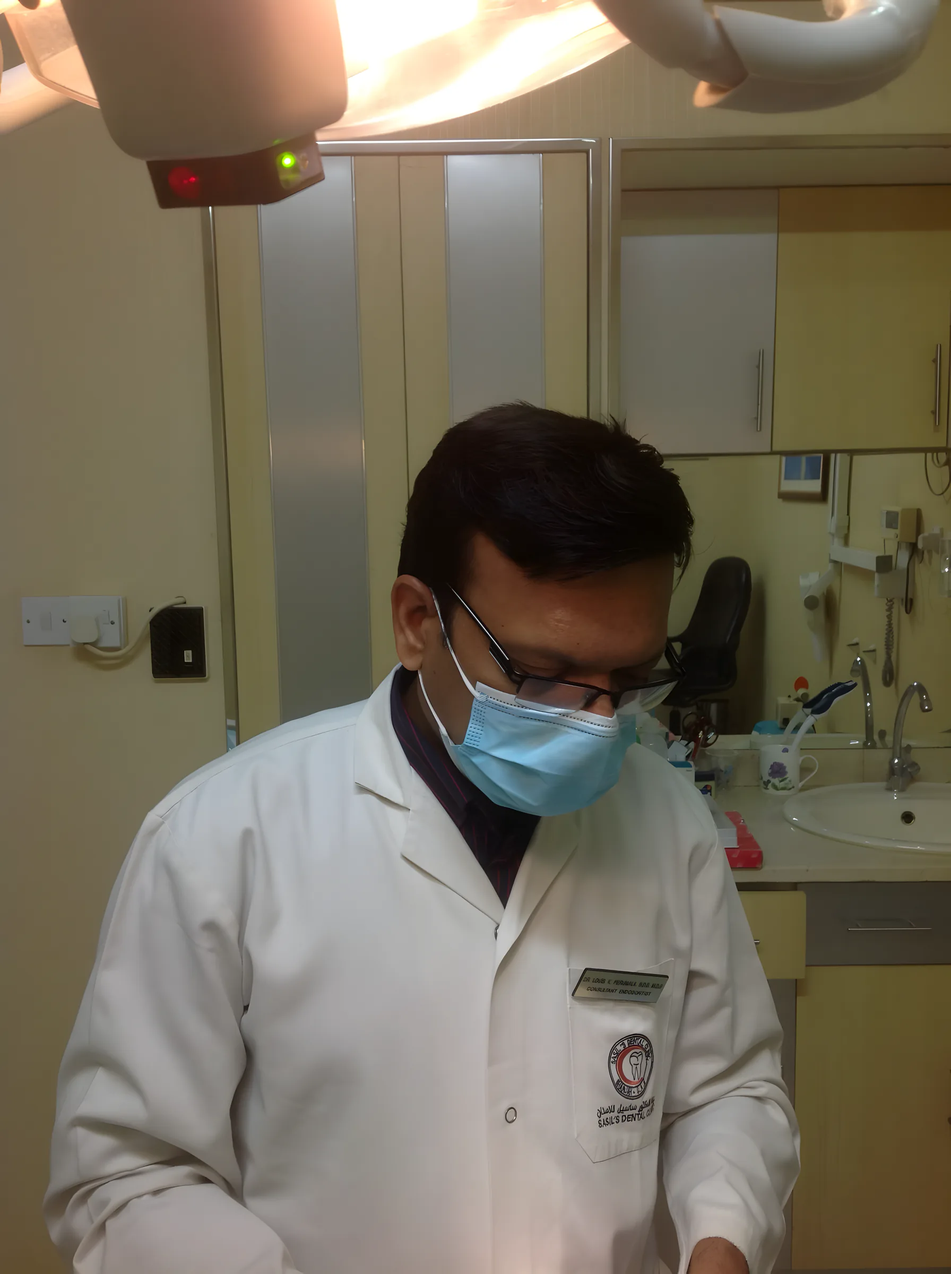
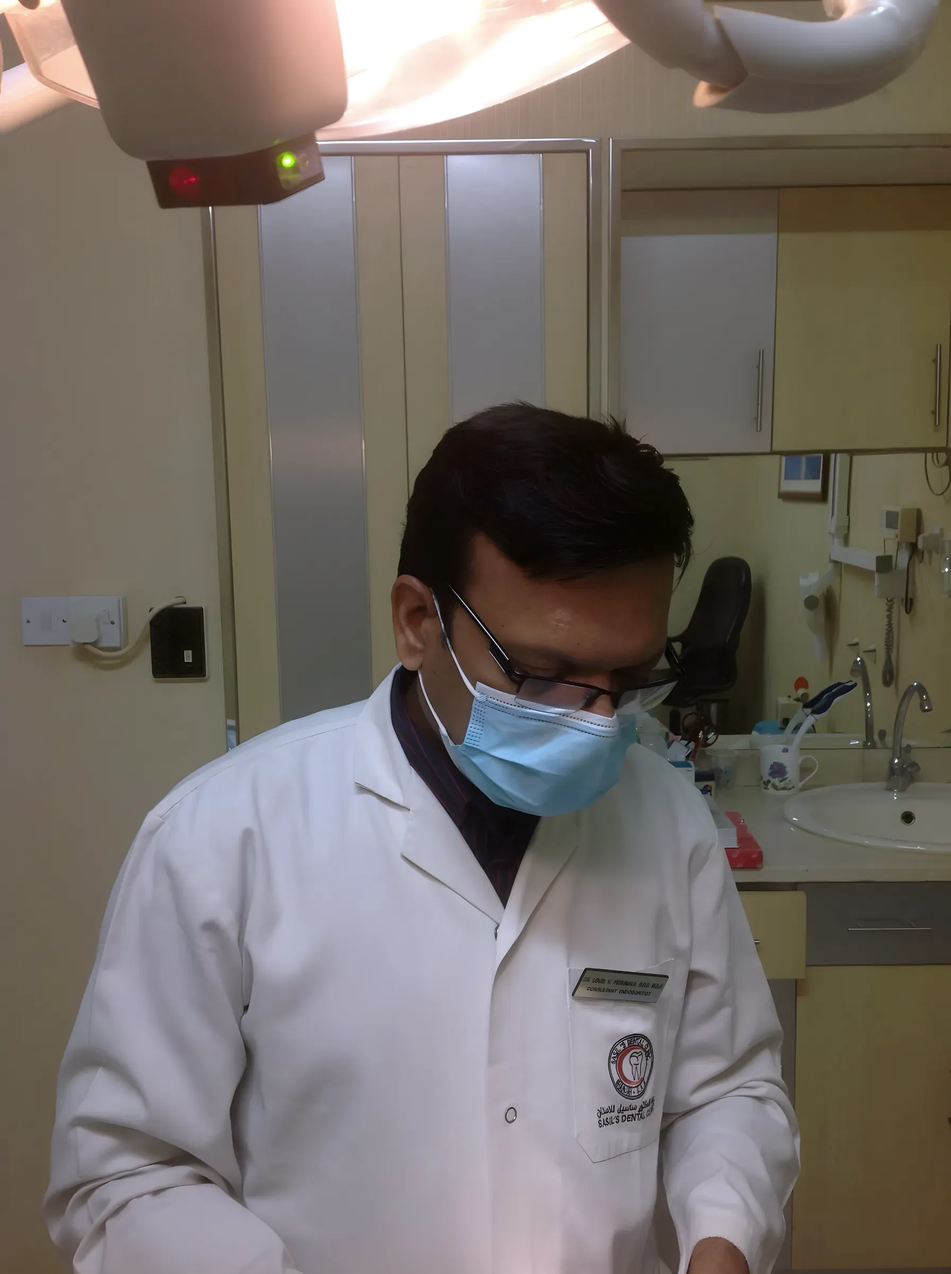
Update concepts 2026-10-29 10:03

Changed region(s): [[0.3125, 0.0, 0.6562, 0.125], [0.0, 0.0, 0.0938, 0.0938], [0.875, 0.0, 0.9062, 0.0312]]

diff --git a/dr-sasils-dental/ar/index.html b/dr-sasils-dental/ar/index.html
@@ -35,7 +35,7 @@
         <li><a href="#visit" class="k-link">موقعنا</a></li>
       </ul>
     </nav>
-    <a class="hd__call" href="tel:+97165626957" aria-label="اتصل على 06 562 6957"><svg viewBox="0 0 24 24" aria-hidden="true"><path fill="currentColor" d="M6.6 10.8a15.1 15.1 0 0 0 6.6 6.6l2.2-2.2c.3-.3.7-.4 1-.2 1.1.4 2.3.6 3.6.6.6 0 1 .4 1 1V20c0 .6-.4 1-1 1A17 17 0 0 1 3 4c0-.6.4-1 1-1h3.5c.6 0 1 .4 1 1 0 1.3.2 2.5.6 3.6.1.3 0 .7-.2 1z"/></svg><span class="lbl" dir="ltr">06 562 6957</span></a>
+    <a class="hd__call" href="tel:+97165626957" aria-label="اتصل على 06 562 6957"><svg viewBox="0 0 24 24" aria-hidden="true"><path fill="currentColor" d="M6.6 10.8a15.1 15.1 0 0 0 6.6 6.6l2.2-2.2c.3-.3.7-.4 1-.2 1.1.4 2.3.6 3.6.6.6 0 1 .4 1 1V20c0 .6-.4 1-1 1A17 17 0 0 1 3 4c0-.6.4-1 1-1h3.5c.6 0 1 .4 1 1 0 1.3.2 2.5.6 3.6.1.3 0 .7-.2 1z"/></svg><span class="lbl" dir="ltr"><span class="nw">06 562 6957</span></span></a>
   </div>
 </header>
 
@@ -47,17 +47,17 @@
     <p class="hero__roll hero__fade" style="--i:0"><span class="vh">احجز موعدك لتقويم الأسنان أو علاج العصب أو الزراعة أو الفينير أو التبييض أو فحص دوري.</span><span aria-hidden="true">احجز موعدك لـ<span class="roll" data-roll><span class="is-on">تقويم الأسنان.</span><span>علاج العصب.</span><span>زراعة الأسنان.</span><span>الفينير.</span><span>التبييض.</span><span>فحص دوري.</span></span></span></p>
     <p class="hero__lead hero__fade" style="--i:1">من أوائل عيادات تقويم الأسنان في الشارقة، افتتحها الدكتور ساسيل بونين سنة 1993 في شارع العروبة بالرولة. واليوم يغطي أربعة أطباء التقويم وعلاج العصب والتيجان والأطقم والزراعة تحت سقف واحد.</p>
     <div class="hero__acts hero__fade" style="--i:2">
-      <a class="k-btn" data-k-magnetic="0.25" href="tel:+97165626957">اتصل على <span dir="ltr">06 562 6957</span> <span class="k-arrow" aria-hidden="true">→</span></a>
-      <a class="txtlink k-link" href="#k-acc-h">شوف العلاجات <span class="k-arrow" aria-hidden="true">→</span></a>
+      <a class="k-btn" data-k-magnetic="0.25" href="tel:+97165626957">اتصل على <span dir="ltr"><span class="nw">06 562 6957</span></span> <span class="k-arrow" aria-hidden="true">→</span></a>
+      <a class="txtlink k-link" href="#k-acc-h">كل العلاجات <span class="k-arrow" aria-hidden="true">→</span></a>
     </div>
   </div>
   <figure class="hero__ph">
-    <div class="hero__disc"><img src="../img/chair-consult.webp" width="1792" height="2400" alt="طبيب في مركز د. ساسيل يفحص مريضاً على كرسي العلاج" fetchpriority="high"></div>
+    <div class="hero__sq"><div class="hero__disc"><img src="../img/chair-consult.webp" width="1792" height="2400" alt="طبيب في مركز د. ساسيل يفحص مريضاً على كرسي العلاج" fetchpriority="high"></div>
     <svg class="hero__seal" viewBox="-4 -4 108 108" aria-hidden="true">
       <defs><mask id="cres-m" maskUnits="userSpaceOnUse" x="-4" y="-4" width="108" height="108"><path d="M73 10.16 A46 46 0 1 0 73 89.84" fill="none" stroke="#fff" stroke-width="22" pathLength="1" stroke-dasharray="1" class="hero__mask-p"/></mask></defs>
       <circle class="hero__ring" cx="50" cy="50" r="51" pathLength="1"/>
       <g class="hero__mask"><path class="hero__cres" mask="url(#cres-m)" fill-rule="evenodd" d="M-2 50a48 48 0 1 0 96 0a48 48 0 1 0-96 0ZM5.5 50a44.5 44.5 0 1 0 89 0a44.5 44.5 0 1 0-89 0Z"/></g>
-    </svg>
+    </svg></div>
     <figcaption>في العيادة، شارع العروبة</figcaption>
   </figure>
 </section>
@@ -66,7 +66,7 @@
   <dl>
     <div><dt>العنوان</dt><dd>شقة 204، بناية جوس وورلد (Juice World)، شارع العروبة، الرولة، الشارقة</dd></div>
     <div><dt>الدوام</dt><dd>الإثنين–السبت، 9 صباحاً–9 مساءً</dd></div>
-    <div><dt>اتصل</dt><dd><a href="tel:+97165626957" class="k-link k-link--under" dir="ltr">06 562 6957</a></dd></div>
+    <div><dt>اتصل</dt><dd><a href="tel:+97165626957" class="k-link k-link--under" dir="ltr"><span class="nw">06 562 6957</span></a></dd></div>
   </dl>
 </div>
 
@@ -131,7 +131,7 @@
     <div>
       <h2 id="desk-h" data-reveal="lines">احجز عن طريق الاستقبال</h2>
       <p data-reveal data-reveal-delay="120">اتصل وقل لنا وش اللي يضايقك، ونحجز لك عند الطبيب المناسب، أي يوم من الإثنين إلى السبت، من 9 الصبح إلى 9 الليل.</p>
-      <a class="desk__num" href="tel:+97165626957" data-reveal data-reveal-delay="220" dir="ltr">06 562 6957</a>
+      <a class="desk__num" href="tel:+97165626957" data-reveal data-reveal-delay="220" dir="ltr"><span class="nw">06 562 6957</span></a>
     </div>
     <figure class="desk__ph" data-reveal="clip"><img src="../img/front-desk.webp" width="1344" height="1800" alt="موظفتا الاستقبال بالزي الأحمر خلف مكتب الاستقبال" loading="lazy"><figcaption>الاستقبال، بناية جوس وورلد</figcaption></figure>
   </div>
@@ -165,10 +165,10 @@
     </table>
     <div class="k-visit__acts">
       <a class="k-visit__go" data-k-magnetic href="https://www.google.com/maps/dir/?api=1&amp;destination=25.3567408,55.388281" target="_blank" rel="noopener">الاتجاهات <span class="k-arrow" aria-hidden="true">→</span></a>
-      <a class="k-visit__call" data-k-magnetic href="tel:+97165626957">اتصل <span dir="ltr">06 562 6957</span></a>
+      <a class="k-visit__call" data-k-magnetic href="tel:+97165626957">اتصل <span dir="ltr"><span class="nw">06 562 6957</span></span></a>
     </div>
   </div>
-  <div class="k-visit__map" data-k-map data-k-map-tap data-src="https://www.google.com/maps?q=25.3567408,55.388281&amp;z=17&amp;output=embed&amp;hl=ar">
+  <div class="k-visit__map" data-k-map data-src="https://www.google.com/maps?q=25.3567408,55.388281&amp;z=17&amp;output=embed&amp;hl=ar">
     <button type="button">اعرض الخريطة</button>
   </div>
 </section>
@@ -181,7 +181,7 @@
     <div class="ft__cols">
       <div><h2>العنوان</h2><p>شقة 204، بناية جوس وورلد<br>شارع العروبة، الرولة، الشارقة<br>ص.ب <span dir="ltr">21392</span>، الإمارات</p></div>
       <div><h2>الدوام</h2><p>من الإثنين إلى السبت<br>9 صباحاً إلى 9 مساءً<br>الأحد إجازة</p></div>
-      <div><h2>تواصل</h2><ul><li><a href="tel:+97165626957" dir="ltr">06 562 6957</a></li><li><a href="https://www.facebook.com/Dr-Sasils-Dental-Centre-1473928159522947/" target="_blank" rel="noopener">فيسبوك</a></li><li><a href="https://www.google.ae/maps/place/Dr+Sasils+Dental+Clinic/@25.3567408,55.3860923,17z" target="_blank" rel="noopener">خرائط Google</a></li></ul></div>
+      <div><h2>تواصل</h2><ul><li><a href="tel:+97165626957" dir="ltr"><span class="nw">06 562 6957</span></a></li><li><a href="https://www.facebook.com/Dr-Sasils-Dental-Centre-1473928159522947/" target="_blank" rel="noopener">فيسبوك</a></li><li><a href="https://www.google.ae/maps/place/Dr+Sasils+Dental+Clinic/@25.3567408,55.3860923,17z" target="_blank" rel="noopener">خرائط Google</a></li></ul></div>
       <div><h2>الصفحات</h2><ul><li><a href="../services.html" hreflang="en">العلاجات (بالإنجليزية)</a></li><li><a href="../about.html" hreflang="en">قصتنا (بالإنجليزية)</a></li><li><a href="../" lang="en" hreflang="en">English</a></li></ul></div>
     </div>
   </div>

diff --git a/dr-sasils-dental/index.html b/dr-sasils-dental/index.html
@@ -35,7 +35,7 @@
         <li><a href="#visit" class="k-link">Find us</a></li>
       </ul>
     </nav>
-    <a class="hd__call" href="tel:+97165626957" aria-label="Call 06 562 6957"><svg viewBox="0 0 24 24" aria-hidden="true"><path fill="currentColor" d="M6.6 10.8a15.1 15.1 0 0 0 6.6 6.6l2.2-2.2c.3-.3.7-.4 1-.2 1.1.4 2.3.6 3.6.6.6 0 1 .4 1 1V20c0 .6-.4 1-1 1A17 17 0 0 1 3 4c0-.6.4-1 1-1h3.5c.6 0 1 .4 1 1 0 1.3.2 2.5.6 3.6.1.3 0 .7-.2 1z"/></svg><span class="lbl k-roll"><span data-text="06 562 6957">06 562 6957</span></span></a>
+    <a class="hd__call" href="tel:+97165626957" aria-label="Call 06 562 6957"><svg viewBox="0 0 24 24" aria-hidden="true"><path fill="currentColor" d="M6.6 10.8a15.1 15.1 0 0 0 6.6 6.6l2.2-2.2c.3-.3.7-.4 1-.2 1.1.4 2.3.6 3.6.6.6 0 1 .4 1 1V20c0 .6-.4 1-1 1A17 17 0 0 1 3 4c0-.6.4-1 1-1h3.5c.6 0 1 .4 1 1 0 1.3.2 2.5.6 3.6.1.3 0 .7-.2 1z"/></svg><span class="lbl k-roll"><span data-text="06 562 6957"><span class="nw">06 562 6957</span></span></span></a>
   </div>
 </header>
 
@@ -47,17 +47,17 @@
     <p class="hero__roll hero__fade" style="--i:0"><span class="vh">Come in for braces, a root canal, implants, veneers, whitening or a check-up.</span><span aria-hidden="true">Come in for <span class="roll" data-roll><span class="is-on">braces.</span><span>a root canal.</span><span>implants.</span><span>veneers.</span><span>whitening.</span><span>a check-up.</span></span></span></p>
     <p class="hero__lead hero__fade" style="--i:1">One of the first orthodontic clinics in Sharjah, opened by Dr. Sasil Poonnen in 1993 on Al Arouba Street, Rolla. Today four dentists cover orthodontics, root canals, crowns, dentures and implants under one roof.</p>
     <div class="hero__acts hero__fade" style="--i:2">
-      <a class="k-btn" data-k-magnetic="0.25" href="tel:+97165626957">Call 06 562 6957 <span class="k-arrow" aria-hidden="true">→</span></a>
+      <a class="k-btn" data-k-magnetic="0.25" href="tel:+97165626957">Call <span class="nw">06 562 6957</span> <span class="k-arrow" aria-hidden="true">→</span></a>
       <a class="txtlink k-link" href="services.html">See all treatments <span class="k-arrow" aria-hidden="true">→</span></a>
     </div>
   </div>
   <figure class="hero__ph">
-    <div class="hero__disc"><img src="img/chair-consult.webp" width="1792" height="2400" alt="A dentist at Dr. Sasil's Dental Center examining a patient in the treatment chair" fetchpriority="high"></div>
+    <div class="hero__sq"><div class="hero__disc"><img src="img/chair-consult.webp" width="1792" height="2400" alt="A dentist at Dr. Sasil's Dental Center examining a patient in the treatment chair" fetchpriority="high"></div>
     <svg class="hero__seal" viewBox="-4 -4 108 108" aria-hidden="true">
       <defs><mask id="cres-m" maskUnits="userSpaceOnUse" x="-4" y="-4" width="108" height="108"><path d="M73 10.16 A46 46 0 1 0 73 89.84" fill="none" stroke="#fff" stroke-width="22" pathLength="1" stroke-dasharray="1" class="hero__mask-p"/></mask></defs>
       <circle class="hero__ring" cx="50" cy="50" r="51" pathLength="1"/>
       <g class="hero__mask"><path class="hero__cres" mask="url(#cres-m)" fill-rule="evenodd" d="M-2 50a48 48 0 1 0 96 0a48 48 0 1 0-96 0ZM5.5 50a44.5 44.5 0 1 0 89 0a44.5 44.5 0 1 0-89 0Z"/></g>
-    </svg>
+    </svg></div>
     <figcaption>In the surgery, Al Arouba Street</figcaption>
   </figure>
 </section>
@@ -66,7 +66,7 @@
   <dl>
     <div><dt>Where</dt><dd>Flat 204, Juice World Building, Al Arouba Street, Rolla, Sharjah</dd></div>
     <div><dt>Open</dt><dd>Mon to Sat, 9am to 9pm</dd></div>
-    <div><dt>Call</dt><dd><a href="tel:+97165626957" class="k-link k-link--under">06 562 6957</a></dd></div>
+    <div><dt>Call</dt><dd><a href="tel:+97165626957" class="k-link k-link--under"><span class="nw">06 562 6957</span></a></dd></div>
   </dl>
 </div>
 
@@ -132,7 +132,7 @@
     <div>
       <h2 id="desk-h" data-reveal="lines">Book with the front desk</h2>
       <p data-reveal data-reveal-delay="120">Call us and tell us what is bothering you. We will book you in with the right dentist, any day from Monday to Saturday, 9am to 9pm.</p>
-      <a class="desk__num" href="tel:+97165626957" data-reveal data-reveal-delay="220"><span class="k-roll"><span data-text="06 562 6957">06 562 6957</span></span></a>
+      <a class="desk__num" href="tel:+97165626957" data-reveal data-reveal-delay="220"><span class="k-roll"><span data-text="06 562 6957"><span class="nw">06 562 6957</span></span></span></a>
     </div>
     <figure class="desk__ph" data-reveal="clip"><img src="img/front-desk.webp" width="1344" height="1800" alt="Two members of the front desk team in red uniforms behind the reception counter" loading="lazy"><figcaption>The front desk, Juice World Building</figcaption></figure>
   </div>
@@ -178,10 +178,10 @@
     </table>
     <div class="k-visit__acts">
       <a class="k-visit__go" data-k-magnetic href="https://www.google.com/maps/dir/?api=1&amp;destination=25.3567408,55.388281" target="_blank" rel="noopener">Directions <span class="k-arrow" aria-hidden="true">→</span></a>
-      <a class="k-visit__call" data-k-magnetic href="tel:+97165626957">Call 06 562 6957</a>
+      <a class="k-visit__call" data-k-magnetic href="tel:+97165626957">Call <span class="nw">06 562 6957</span></a>
     </div>
   </div>
-  <div class="k-visit__map" data-k-map data-k-map-tap data-src="https://www.google.com/maps?q=25.3567408,55.388281&amp;z=17&amp;output=embed">
+  <div class="k-visit__map" data-k-map data-src="https://www.google.com/maps?q=25.3567408,55.388281&amp;z=17&amp;output=embed">
     <button type="button">Show the map</button>
   </div>
 </section>
@@ -194,7 +194,7 @@
     <div class="ft__cols">
       <div><h2>Visit</h2><p>Flat 204, Juice World Building<br>Al Arouba Street, Rolla, Sharjah<br>P.O. Box 21392, U.A.E.</p></div>
       <div><h2>Hours</h2><p>Monday to Saturday<br>9am to 9pm<br>Sunday closed</p></div>
-      <div><h2>Contact</h2><ul><li><a href="tel:+97165626957">06 562 6957</a></li><li><a href="https://www.facebook.com/Dr-Sasils-Dental-Centre-1473928159522947/" target="_blank" rel="noopener">Facebook</a></li><li><a href="https://www.google.ae/maps/place/Dr+Sasils+Dental+Clinic/@25.3567408,55.3860923,17z" target="_blank" rel="noopener">Google Maps</a></li></ul></div>
+      <div><h2>Contact</h2><ul><li><a href="tel:+97165626957"><span class="nw">06 562 6957</span></a></li><li><a href="https://www.facebook.com/Dr-Sasils-Dental-Centre-1473928159522947/" target="_blank" rel="noopener">Facebook</a></li><li><a href="https://www.google.ae/maps/place/Dr+Sasils+Dental+Clinic/@25.3567408,55.3860923,17z" target="_blank" rel="noopener">Google Maps</a></li></ul></div>
       <div><h2>Pages</h2><ul><li><a href="services.html">Treatments</a></li><li><a href="index.html#doctors">Dentists</a></li><li><a href="about.html">Our story</a></li><li><a href="ar/" lang="ar">العربية</a></li></ul></div>
     </div>
   </div>

diff --git a/dr-sasils-dental/site.css b/dr-sasils-dental/site.css
@@ -338,7 +338,7 @@ a{color:inherit}
 /* ---------- First visit ---------- */
 .visit1{display:grid;gap:clamp(30px,5vw,80px);max-width:var(--max);margin:0 auto;padding:0 var(--pad) clamp(70px,10vw,140px);align-items:center}
 .visit1__ph{overflow:hidden;aspect-ratio:4/5;position:relative}
-.visit1__ph img{width:100%;height:115%;object-fit:cover;object-position:50% 20%;filter:saturate(.8) contrast(1.04)}
+.visit1__ph img{width:100%;height:115%;object-fit:cover;object-position:50% 20%}
 .visit1 h2{font:400 clamp(2.2rem,5vw,4.2rem)/1 var(--k-display);letter-spacing:-.03em;max-width:12em}
 .steps{list-style:none;padding:0;margin-top:30px;counter-reset:s}
 .steps li{counter-increment:s;display:grid;grid-template-columns:3rem 1fr;gap:6px 14px;padding:20px 0;border-top:1px solid var(--k-line)}
@@ -446,8 +446,10 @@ a{color:inherit}
   .topbar__hrs .long{display:none}
 }
 @media (min-width:960px){.topbar__hrs .short{display:none}}
-.k-story__media figure.story-seal,.k-story__inline.story-seal{background:var(--soft);display:grid;place-items:center}
-.k-story__media .story-seal img,.k-story__inline.story-seal img{width:min(55%,340px);height:auto;object-fit:contain;mix-blend-mode:multiply}
+.k-story__media figure.story-seal{background:var(--soft);display:grid;place-items:center}
+.k-story__media .story-seal img{width:min(40%,280px);height:auto;object-fit:contain;mix-blend-mode:multiply}
+@media (max-width:899px){.k-story__inline.story-seal{background:var(--soft);display:grid;place-items:center}.k-story__inline.story-seal img{width:min(40%,280px);height:auto;object-fit:contain;mix-blend-mode:multiply}}
+@media (min-width:900px){.k-story__step .k-story__inline.story-seal{display:none}}
 .tx__side>p{margin-top:12px}
 .tx h3{margin-bottom:14px}
 
@@ -473,3 +475,72 @@ html:lang(ar) .hero__h{font-size:clamp(2.6rem,6.6vw,6.2rem)}
 html:lang(ar) .hero__h .w{white-space:nowrap}
 .hero__ring{stroke-linecap:round}
 html:not(.k-js) .roll>span:not(:first-child){display:none}
+
+/* ===== Fannan round 1 fixes ===== */
+/* (1) red only on crescent, CTA, desk band, small labels */
+.hero__h .w--2{color:var(--k-ink)}
+.roll{vertical-align:baseline;height:auto;padding-bottom:.32em;margin-bottom:-.32em}
+.roll>span{color:var(--k-ink);text-decoration:underline 2px var(--red);text-decoration-skip-ink:none;text-underline-offset:.18em}
+html:lang(ar) .roll{height:auto}
+.since .since__yr{color:var(--k-ink)}
+.phead h1 em{color:var(--k-ink)}
+/* (3) desktop hero: big disc pushing past the gutter, top on the cap height */
+.hero__sq{position:relative;aspect-ratio:1;width:100%}
+.hero__ph{aspect-ratio:auto}
+.hero__ph figcaption{position:static;display:inline-block;margin-top:10px;margin-inline-start:11%;border:0;padding:0;background:none}
+.hero__disc img{object-position:38% 28%}
+@media (min-width:960px){
+  .hero{grid-template-columns:minmax(0,1fr) 44vw;align-items:start;padding-top:clamp(40px,6vw,90px);min-height:0}
+  .hero__ph{width:44vw;max-width:none;justify-self:end;margin-inline-end:-40px;margin-top:calc(.1 * clamp(3.3rem,10.2vw,9.6rem) - 4.84vw)}
+}
+@media (min-width:1500px){.hero{grid-template-columns:minmax(0,1fr) 660px}.hero__ph{width:660px;margin-top:calc(15px - 72px)}}
+/* (2) phones/tablets: name, rolling line, Call, disc, lead */
+@media (max-width:959px){
+  .hero__h{order:1}.hero__roll{order:2}.hero__acts{order:3}.hero__ph{order:4;width:min(72vw,520px);margin:30px auto 0}.hero__lead{order:5;margin-top:26px}
+  .hero__acts{margin-top:22px;flex-direction:column;align-items:stretch;gap:2px}
+  .hero__acts .k-btn{width:100%;min-height:56px;justify-content:center;font-size:1.05rem}
+  .hero__acts .txtlink{align-self:flex-start}
+  .hero__ph figcaption{margin-inline-start:0}
+  .hero{padding-top:22px}
+}
+/* (7) type */
+.phead h1{font-size:clamp(3.4rem,10vw,9rem)}
+.nw,.k-roll,.hd__call,.desk__num,.k-visit__call,.k-btn{white-space:nowrap}
+.hero__lead{text-wrap:pretty;max-width:36ch}
+html:lang(ar) .hero__h{font-weight:500}
+html:lang(ar) .hero__lead{max-width:40ch}
+/* (5) map: same height as the info column on desktop */
+@media (min-width:900px){.k-visit{align-items:stretch}.k-visit__map{min-height:0;height:auto}}
+/* (6) images */
+.grp__ph{max-width:620px;aspect-ratio:16/10}
+.visit1__ph{max-width:520px;width:100%}
+@media (min-width:960px){.visit1__ph{margin-inline-start:0;justify-self:start}}
+.desk__ph{max-width:440px;aspect-ratio:4/5}
+.desk__ph img{object-position:50% 70%}
+.k-team__ph{max-width:220px}
+/* (8) treatments: two columns of four on wide screens */
+@media (min-width:1024px){
+  .k-acc__list{display:grid;grid-auto-flow:column;grid-template-rows:repeat(4,auto);grid-template-columns:1fr 1fr;column-gap:56px;align-items:start}
+  .k-acc__t{font-size:2rem}
+  .k-acc__row summary{padding:22px 0}
+  .k-acc__body{padding-inline-start:0;grid-template-columns:1fr}
+}
+/* (9) phone nav strip fades at the edge so it reads as scrollable */
+@media (max-width:960px){.nav{-webkit-mask-image:linear-gradient(90deg,#000 85%,transparent);mask-image:linear-gradient(90deg,#000 85%,transparent)}
+  [dir=rtl] .nav{-webkit-mask-image:linear-gradient(270deg,#000 85%,transparent);mask-image:linear-gradient(270deg,#000 85%,transparent)}}
+@media (max-width:959px){.hero__ph{width:min(92vw,600px)}}
+.hero__h .w{white-space:nowrap}
+@media (min-width:960px){
+  .hero{--h1:clamp(3.3rem,7.2vw,8.6rem)}
+  .hero__h{font-size:var(--h1)}
+  .hero__ph{margin-top:calc(.1 * var(--h1) - 4.84vw)}
+  html:lang(ar) .hero__h{font-size:clamp(2.6rem,6vw,6rem)}
+}
+@media (min-width:1500px){.hero__ph{margin-top:calc(.1 * var(--h1) - 72px)}}
+.hero__h .w--2{white-space:normal}
+@media (min-width:960px){
+  .hero{--h1:min(7.2vw,5.8rem)}
+  html:lang(ar) .hero{--h1:min(6vw,5.4rem)}
+  html:lang(ar) .hero__h{font-size:var(--h1)}
+}
+@media (min-width:960px){html:lang(ar) .hero__ph{margin-top:calc(.26 * var(--h1) - 4.84vw)}}

diff --git a/dr-sasils-dental/services.html b/dr-sasils-dental/services.html
@@ -35,15 +35,15 @@
         <li><a href="index.html#visit" class="k-link">Find us</a></li>
       </ul>
     </nav>
-    <a class="hd__call" href="tel:+97165626957" aria-label="Call 06 562 6957"><svg viewBox="0 0 24 24" aria-hidden="true"><path fill="currentColor" d="M6.6 10.8a15.1 15.1 0 0 0 6.6 6.6l2.2-2.2c.3-.3.7-.4 1-.2 1.1.4 2.3.6 3.6.6.6 0 1 .4 1 1V20c0 .6-.4 1-1 1A17 17 0 0 1 3 4c0-.6.4-1 1-1h3.5c.6 0 1 .4 1 1 0 1.3.2 2.5.6 3.6.1.3 0 .7-.2 1z"/></svg><span class="lbl k-roll"><span data-text="06 562 6957">06 562 6957</span></span></a>
+    <a class="hd__call" href="tel:+97165626957" aria-label="Call 06 562 6957"><svg viewBox="0 0 24 24" aria-hidden="true"><path fill="currentColor" d="M6.6 10.8a15.1 15.1 0 0 0 6.6 6.6l2.2-2.2c.3-.3.7-.4 1-.2 1.1.4 2.3.6 3.6.6.6 0 1 .4 1 1V20c0 .6-.4 1-1 1A17 17 0 0 1 3 4c0-.6.4-1 1-1h3.5c.6 0 1 .4 1 1 0 1.3.2 2.5.6 3.6.1.3 0 .7-.2 1z"/></svg><span class="lbl k-roll"><span data-text="06 562 6957"><span class="nw">06 562 6957</span></span></span></a>
   </div>
 </header>
 
 <main id="main">
 
 <section class="phead" aria-labelledby="ph-h">
-  <h1 id="ph-h" data-reveal="lines">Treat&shy;ments</h1>
-  <p data-reveal data-reveal-delay="150">Everything we do at the clinic in Rolla, in plain words: what each treatment is, what we offer, and which of our dentists you will see. Call 06 562 6957 to book any of them.</p>
+  <h1 id="ph-h" data-reveal="lines">Treatments</h1>
+  <p data-reveal data-reveal-delay="150">Everything we do at the clinic in Rolla, in plain words: what each treatment is, what we offer, and which of our dentists you will see. Call <span class="nw">06 562 6957</span> to book any of them.</p>
 </section>
 
 <div class="svc">
@@ -85,7 +85,7 @@
 
     <section class="grp" aria-labelledby="g2">
       <div class="grp__h"><h2 id="g2" data-reveal="lines">General dentistry</h2><p data-reveal>Check-ups, fillings, root canals, crowns and implants: the work that keeps your own teeth working.</p></div>
-      <figure class="grp__ph" data-reveal="clip"><img src="img/surgery.webp" width="1792" height="2400" alt="A dentist at work in one of the clinic's surgeries" loading="lazy" style="object-position:50% 38%;filter:saturate(.8) contrast(1.04)"></figure>
+      <figure class="grp__ph" data-reveal="clip"><img src="img/surgery.webp" width="1792" height="2400" alt="A dentist at work in one of the clinic's surgeries" loading="lazy" style="object-position:50% 38%"></figure>
 
       <article class="tx" id="check-ups">
         <span class="tx__n">02</span>
@@ -143,7 +143,7 @@
     <div>
       <h2 id="desk-h" data-reveal="lines">Not sure which treatment you need?</h2>
       <p data-reveal data-reveal-delay="120">Book a check-up. The dentist will look, take X-rays where needed and tell you. Monday to Saturday, 9am to 9pm, Flat 204, Juice World Building, Rolla.</p>
-      <a class="desk__num" href="tel:+97165626957" data-reveal data-reveal-delay="220"><span class="k-roll"><span data-text="06 562 6957">06 562 6957</span></span></a>
+      <a class="desk__num" href="tel:+97165626957" data-reveal data-reveal-delay="220"><span class="k-roll"><span data-text="06 562 6957"><span class="nw">06 562 6957</span></span></span></a>
     </div>
     <figure class="desk__ph" data-reveal="clip"><img src="img/front-desk.webp" width="1344" height="1800" alt="Two members of the front desk team in red uniforms behind the reception counter" loading="lazy"><figcaption>The front desk, Juice World Building</figcaption></figure>
   </div>
@@ -157,7 +157,7 @@
     <div class="ft__cols">
       <div><h2>Visit</h2><p>Flat 204, Juice World Building<br>Al Arouba Street, Rolla, Sharjah<br>P.O. Box 21392, U.A.E.</p></div>
       <div><h2>Hours</h2><p>Monday to Saturday<br>9am to 9pm<br>Sunday closed</p></div>
-      <div><h2>Contact</h2><ul><li><a href="tel:+97165626957">06 562 6957</a></li><li><a href="https://www.facebook.com/Dr-Sasils-Dental-Centre-1473928159522947/" target="_blank" rel="noopener">Facebook</a></li><li><a href="https://www.google.ae/maps/place/Dr+Sasils+Dental+Clinic/@25.3567408,55.3860923,17z" target="_blank" rel="noopener">Google Maps</a></li></ul></div>
+      <div><h2>Contact</h2><ul><li><a href="tel:+97165626957"><span class="nw">06 562 6957</span></a></li><li><a href="https://www.facebook.com/Dr-Sasils-Dental-Centre-1473928159522947/" target="_blank" rel="noopener">Facebook</a></li><li><a href="https://www.google.ae/maps/place/Dr+Sasils+Dental+Clinic/@25.3567408,55.3860923,17z" target="_blank" rel="noopener">Google Maps</a></li></ul></div>
       <div><h2>Pages</h2><ul><li><a href="services.html">Treatments</a></li><li><a href="index.html#doctors">Dentists</a></li><li><a href="about.html">Our story</a></li><li><a href="ar/" lang="ar">العربية</a></li></ul></div>
     </div>
   </div>

diff --git a/dr-sasils-dental/about.html b/dr-sasils-dental/about.html
@@ -35,7 +35,7 @@
         <li><a href="index.html#visit" class="k-link">Find us</a></li>
       </ul>
     </nav>
-    <a class="hd__call" href="tel:+97165626957" aria-label="Call 06 562 6957"><svg viewBox="0 0 24 24" aria-hidden="true"><path fill="currentColor" d="M6.6 10.8a15.1 15.1 0 0 0 6.6 6.6l2.2-2.2c.3-.3.7-.4 1-.2 1.1.4 2.3.6 3.6.6.6 0 1 .4 1 1V20c0 .6-.4 1-1 1A17 17 0 0 1 3 4c0-.6.4-1 1-1h3.5c.6 0 1 .4 1 1 0 1.3.2 2.5.6 3.6.1.3 0 .7-.2 1z"/></svg><span class="lbl k-roll"><span data-text="06 562 6957">06 562 6957</span></span></a>
+    <a class="hd__call" href="tel:+97165626957" aria-label="Call 06 562 6957"><svg viewBox="0 0 24 24" aria-hidden="true"><path fill="currentColor" d="M6.6 10.8a15.1 15.1 0 0 0 6.6 6.6l2.2-2.2c.3-.3.7-.4 1-.2 1.1.4 2.3.6 3.6.6.6 0 1 .4 1 1V20c0 .6-.4 1-1 1A17 17 0 0 1 3 4c0-.6.4-1 1-1h3.5c.6 0 1 .4 1 1 0 1.3.2 2.5.6 3.6.1.3 0 .7-.2 1z"/></svg><span class="lbl k-roll"><span data-text="06 562 6957"><span class="nw">06 562 6957</span></span></span></a>
   </div>
 </header>
 
@@ -51,9 +51,9 @@
   <div class="k-story__grid">
     <div class="k-story__media" aria-hidden="true">
       <figure class="is-on story-seal" data-k-story-media><img src="img/logo-seal.webp" alt=""></figure>
-      <figure data-k-story-media><img src="img/surgery.webp" alt="" loading="lazy" style="filter:saturate(.8) contrast(1.04)"></figure>
-      <figure data-k-story-media><img src="img/chair-consult.webp" alt="" loading="lazy"></figure>
-      <figure data-k-story-media><img src="img/front-desk.webp" alt="" loading="lazy"></figure>
+      <figure data-k-story-media><img src="img/surgery.webp" alt=""></figure>
+      <figure data-k-story-media><img src="img/chair-consult.webp" alt=""></figure>
+      <figure data-k-story-media><img src="img/front-desk.webp" alt=""></figure>
       <span class="k-story__prog"></span>
     </div>
     <div class="k-story__steps">
@@ -71,7 +71,7 @@
       </article>
       <article class="k-story__step" data-k-story-step>
         <div class="k-story__inline"><img src="img/front-desk.webp" alt="The front desk team behind the reception counter" loading="lazy"></div>
-        <span class="k-story__n">Every day</span><h3>The front desk</h3><p>Our front desk answers the phone and books you in, Monday to Saturday from 9am to 9pm. Call 06 562 6957.</p>
+        <span class="k-story__n">Every day</span><h3>The front desk</h3><p>Our front desk answers the phone and books you in, Monday to Saturday from 9am to 9pm. Call <span class="nw">06 562 6957</span>.</p>
       </article>
     </div>
   </div>
@@ -94,7 +94,7 @@
     <div>
       <h2 id="desk-h" data-reveal="lines">Come and see us in Rolla</h2>
       <p data-reveal data-reveal-delay="120">Flat 204, Juice World Building, Al Arouba Street, Rolla, Sharjah. Monday to Saturday, 9am to 9pm. Closed Sunday.</p>
-      <a class="desk__num" href="tel:+97165626957" data-reveal data-reveal-delay="220"><span class="k-roll"><span data-text="06 562 6957">06 562 6957</span></span></a>
+      <a class="desk__num" href="tel:+97165626957" data-reveal data-reveal-delay="220"><span class="k-roll"><span data-text="06 562 6957"><span class="nw">06 562 6957</span></span></span></a>
     </div>
     <figure class="desk__ph" data-reveal="clip"><img src="img/chair-consult.webp" width="1792" height="2400" alt="A dentist examining a patient in the treatment chair" loading="lazy"><figcaption>In the surgery, Al Arouba Street</figcaption></figure>
   </div>
@@ -108,7 +108,7 @@
     <div class="ft__cols">
       <div><h2>Visit</h2><p>Flat 204, Juice World Building<br>Al Arouba Street, Rolla, Sharjah<br>P.O. Box 21392, U.A.E.</p></div>
       <div><h2>Hours</h2><p>Monday to Saturday<br>9am to 9pm<br>Sunday closed</p></div>
-      <div><h2>Contact</h2><ul><li><a href="tel:+97165626957">06 562 6957</a></li><li><a href="https://www.facebook.com/Dr-Sasils-Dental-Centre-1473928159522947/" target="_blank" rel="noopener">Facebook</a></li><li><a href="https://www.google.ae/maps/place/Dr+Sasils+Dental+Clinic/@25.3567408,55.3860923,17z" target="_blank" rel="noopener">Google Maps</a></li></ul></div>
+      <div><h2>Contact</h2><ul><li><a href="tel:+97165626957"><span class="nw">06 562 6957</span></a></li><li><a href="https://www.facebook.com/Dr-Sasils-Dental-Centre-1473928159522947/" target="_blank" rel="noopener">Facebook</a></li><li><a href="https://www.google.ae/maps/place/Dr+Sasils+Dental+Clinic/@25.3567408,55.3860923,17z" target="_blank" rel="noopener">Google Maps</a></li></ul></div>
       <div><h2>Pages</h2><ul><li><a href="services.html">Treatments</a></li><li><a href="index.html#doctors">Dentists</a></li><li><a href="about.html">Our story</a></li><li><a href="ar/" lang="ar">العربية</a></li></ul></div>
     </div>
   </div>
